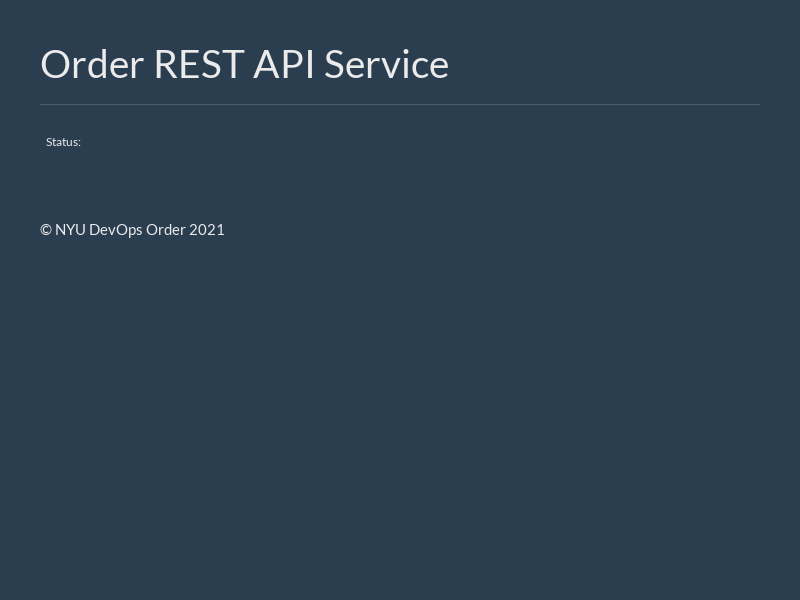
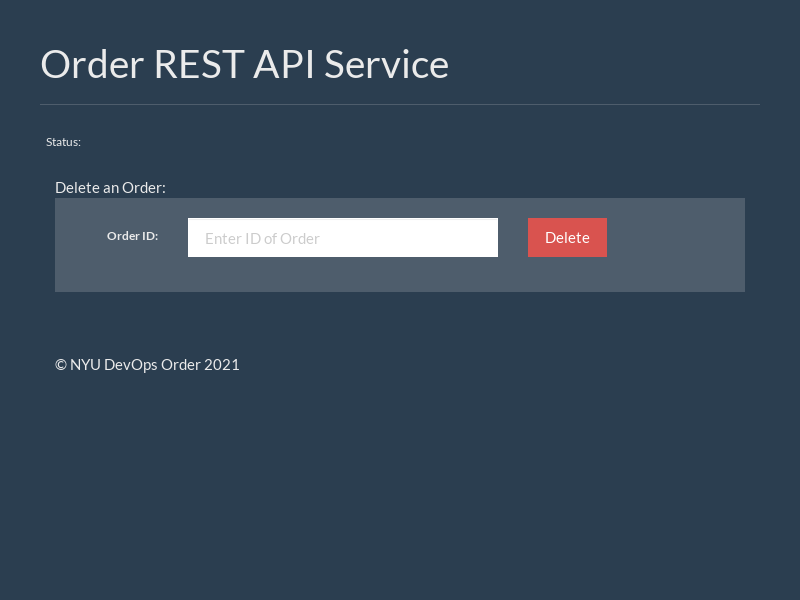
Add UI function and test for DELETE
Delete button with bdd selenium testing

Changed region(s): [[0.0312, 0.3, 0.9375, 0.51], [0.0625, 0.6, 0.3125, 0.63]]

diff --git a/service/static/index.html b/service/static/index.html
@@ -21,6 +21,22 @@
             <tr><td>Status:</td><td><span id="flash_message"></span></td></tr>
           </table>
         </div>
+
+        <div class="col-md-12" id="form_data">
+          Delete an Order:
+          <div class="well">
+            <div class="form-horizontal">
+              <div class="form-group">
+                <label class="control-label col-sm-2" for="order_id">Order ID:</label>
+                <div class="col-sm-6">
+                  <input type="text" class="form-control" id="order_id" placeholder="Enter ID of Order">
+                </div>
+                <div class="col-sm-4">
+                  <button type="submit" class="btn btn-danger" id="delete-btn">Delete</button>
+                </div>
+              </div>
+            </div> <!-- form div -->
+        </div>
         
         <footer>
           <br><br>

diff --git a/service/static/js/rest_api.js b/service/static/js/rest_api.js
@@ -24,4 +24,26 @@ $(function () {
         $("#flash_message").append(message);
     }
 
+    // Delete an Order
+    $("#delete-btn").click(function () {
+
+        var order_id = $("#order_id").val();
+
+        var ajax = $.ajax({
+            type: "DELETE",
+            url: "/orders/" + order_id,
+            contentType: "application/json",
+            data: '',
+        })
+
+        ajax.done(function(res){
+            clear_form_data()
+            flash_message("Order has been Deleted!")
+        });
+
+        ajax.fail(function(res){
+            flash_message("No orders found!")
+        });
+    });
+
 })

diff --git a/features/steps/steps.py b/features/steps/steps.py
@@ -66,3 +66,32 @@ def step_impl(context):
 		context.resp = requests.post(create_url, data=payload, headers=headers)
 		expect(context.resp.status_code).to_equal(201)
 		#print(context.resp.status_code)
+
+@when('I set the "{element_name}" to "{text_string}"')
+def step_impl(context, element_name, text_string):
+    element_id = element_name.lower()
+    element = context.driver.find_element_by_id(element_id)
+    element.clear()
+    element.send_keys(text_string)
+
+@when('I press the "{button}" button')
+def step_impl(context, button):
+    button_id = button.lower() + '-btn'
+
+    element = WebDriverWait(context.driver, context.WAIT_SECONDS).until(
+        expected_conditions.element_to_be_clickable(
+            (By.ID, button_id)
+        )
+    )
+    element.click()
+
+@then('I should see the message "{message}"')
+def step_impl(context, message):
+    found = WebDriverWait(context.driver, context.WAIT_SECONDS).until(
+        expected_conditions.text_to_be_present_in_element(
+            (By.ID, 'flash_message'),
+            message
+        )
+    )
+    expect(found).to_be(True)
+
